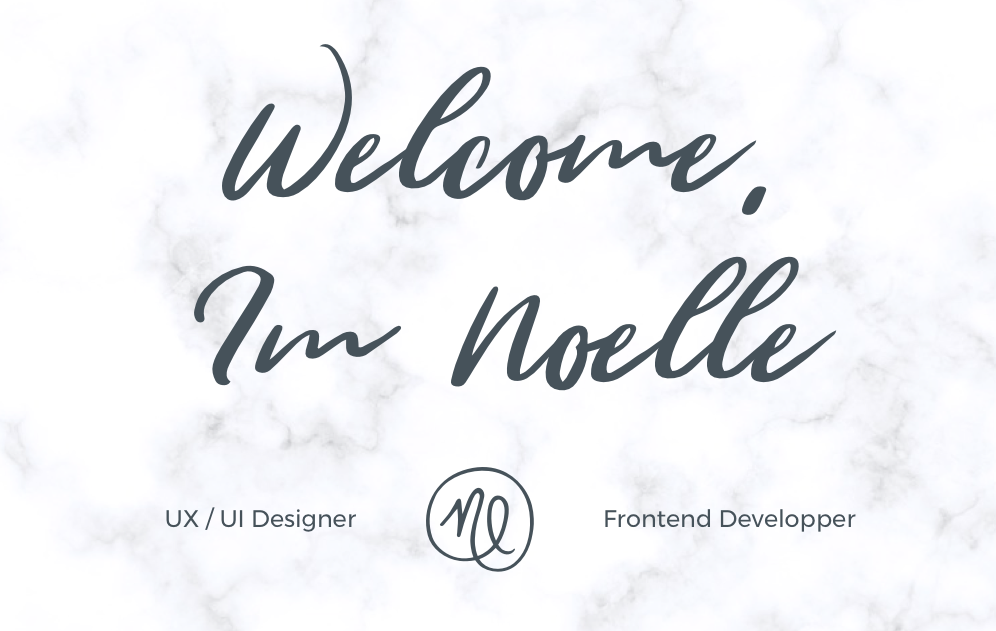
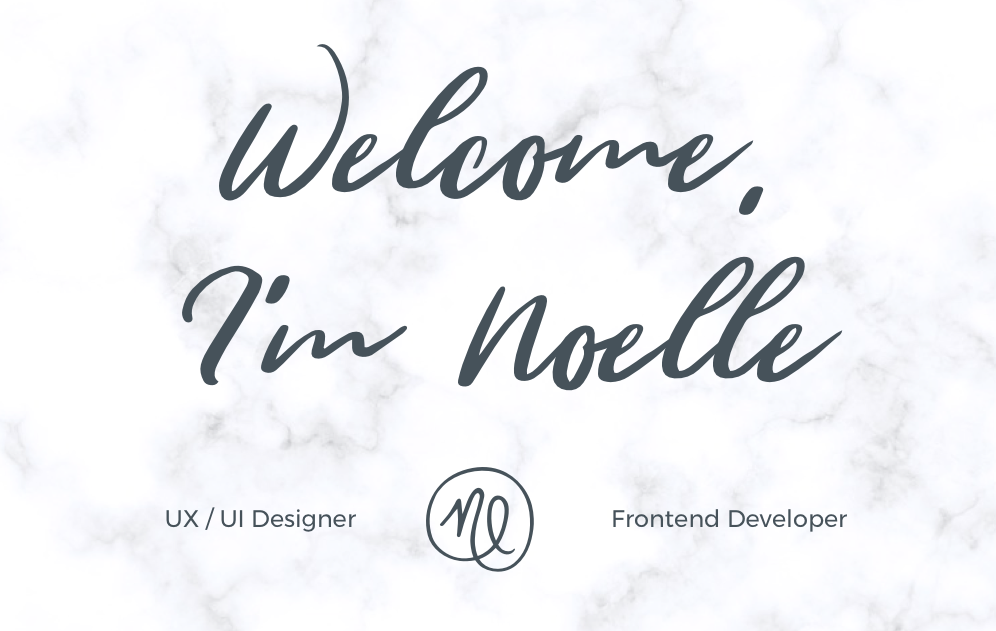
feedback edits

diff --git a/about.html b/about.html
@@ -4,7 +4,7 @@
   <meta http-equiv="X-UA-Compatible" content="IE=Edge">
   <meta name="viewport" content="width=device-width, initial-scale=1">
   <meta charset="UTF-8">
-  
+
   <title>Noëlle Lewkowicz | About</title>
 
   <link rel="shortcut icon" href="images/logo-blue.png" />
@@ -38,10 +38,10 @@
 
 <ul class="menulist">
   <li><a href="index.html"><img src="images/logo-white.png"/></a></li>
-  <li><a class="menuitems" href="index.html">Projects</a></li>   
-  <li><a class="menuitems" href="about.html">About</a></li>        
+  <li><a class="menuitems" href="index.html">Projects</a></li>
+  <li><a class="menuitems" href="about.html">About</a></li>
   <li><a class="menuitems" href="contact.html">Contact</a></li>
-</ul>     
+</ul>
 </div>
 
 <div id="main">
@@ -70,7 +70,7 @@
 <section class="header">
   <div class="header-container">
     <img src="images\about-me.png">
-    <p>“If you can design one thing, you can design everything.” 
+    <p>“If you can design one thing, you can design everything.”
     <br>- Massimo Vignelli</p>
   </div>
 </section>
@@ -81,12 +81,13 @@
   <div class="about-left">
     <div class="blue-bar"></div>
     <h3>My Background</h3>
-    <p class="bio-text">Art and Design have always been a lifelong love of mine though my career didn’t start until 2011 when I graduated with a BFA from ‘Parsons School of Art and Design’ and began as a fashion and graphic designer in New York City.<br><br>
+    <p class="bio-text">Art and Design have always been a lifelong love of mine though my career didn’t start until 2011 when I graduated with a BFA from <a target="_blank" href="http://www.newschool.edu/parsons/" class="school">Parsons School of Art and Design</a> and began as a fashion and graphic designer in New York City.<br><br>
 
-    It didn’t take long for me to discover a growing passion for communication design, and so, started self-teaching print and digital design as well as taking a continuing education course at New York’s ‘School of Visual Arts’ while still working full-time in Fashion Design.<br><br>
+    It didn’t take long for me to discover a growing passion for communication design, and so, started self-teaching print and digital design as well as taking a continuing education course at New York’s <a href="http://www.sva.edu/" class="school">School of Visual Arts</a> while still working full-time in Fashion Design.<br><br>
 
     In 2016 I realized my true passion for digital design and decided to study UX/UI Design and Frontend Development full time in order to embark on this new career path.
     </p>
+    <a href="contact.html" class="button">Contact Me</a>
   </div>
 
   <div class="about-right">
@@ -123,4 +124,3 @@
 </script>
 </body>
 </html>
-

diff --git a/styles/case-study.css b/styles/case-study.css
@@ -10,8 +10,8 @@ section {
 
 section p {
   width: 80%;
-  max-width: 1024px;
-  text-align: justify;
+  max-width: 950px;
+  text-align: left;
   margin: 50px auto 20px;
   line-height: 1.5;
 }
@@ -25,12 +25,13 @@ h4 {
 }
 
 .section-title {
-  left: 10%;
+  left: -27%;
   max-width: 50%;
+  text-align: right;
 }
 
 .blue-bar {
-  width: 240px;
+  width: 350px;
   margin-top: 10px;
 }
 
@@ -157,7 +158,7 @@ h4 {
 
 .image-gallery img {
   width: 33%;
-  margin: 8px; 
+  margin: 8px;
 /*  align-self: flex-start;*/
 }
 
@@ -179,7 +180,7 @@ h4 {
 
 .final-design .image-gallery img {
   width: 80%;
-  margin: 8px; 
+  margin: 8px;
 }
 
 
@@ -212,14 +213,23 @@ h4 {
   padding: 20px 0 40px;
 }
 
+
+
+
 /*MEDIA QUERIES FOR XTRA LARGE SCREENS*/
+@media (min-width:1024px) and (max-width:1112px) {
+  .section-title {
+    left: -20%;
+  }
+}
+
 @media (min-width: 1440px){
   .fb-third{
     padding: 8% 0 0 9%;
   }
 }
 
-@media (min-width: 1514px){
+@media (min-width: 1514px)and (max-width: 1899px){
   .blue-bar, .add-length{
     width: 31%;
   }
@@ -228,9 +238,13 @@ h4 {
   }
 }
 
-
-
-
-
-
-
+@media (min-width: 1900px) {
+  .blue-bar{
+    display: none;
+  }
+  .section-title{
+    left: 0;
+    margin: auto;
+    text-align: center;
+  }
+}

diff --git a/index.html b/index.html
@@ -6,7 +6,7 @@
   <meta charset="UTF-8">
   <meta name="keywords" content="Noelle, Lewkowicz, designer, portfolio, designs, noelleliza, webdesigner, webdesign, ux, ui">
   <meta name="description" content="Noelle Lewkowicz's Design portfolio">
-  <meta property="og:image" content="https://raw.githubusercontent.com/Noelleliza/noelleliza.github.io/master/images/meta.png">
+  <meta property="og:image" name="twitter:image" content="images/meta.png">
 
   <title>Noëlle Lewkowicz | Portfolio</title>
 
@@ -65,7 +65,7 @@
   <div class="hero-frame">
     <div class="hero-left">
       <img src="images/welcome-noelle.png">
-      <p class="box-text">I'm a Paris based UX / UI designer with Frontend skills and an eternal love for sweets.</p>
+      <p class="box-text">I'm a Paris-based UX / UI designer with Frontend skills and an eternal love for sweets.</p>
     </div>
     <div class="hero-right">
       <img src="images/noelle.png">

diff --git a/styles/deco.css b/styles/deco.css
@@ -7,12 +7,12 @@
 }
 
 .dc-bttn:hover {
-  color: #5380AE; 
+  color: #5380AE;
 }
 
 .blue-bar {
   background: #424A4F;
-  width: 240px;
+  width: 350px;
   margin-top: 10px;
   opacity: 1;
 }
@@ -28,6 +28,12 @@
 @media (max-width: 601px){
   .section-title {
     color: #424A4F;
+  }
+}
+
+@media (min-width: 1900px) {
+  .section-title{
+    color: #424a4f;
   }
 }
 
@@ -99,12 +105,27 @@ h4.centered-title  {
   background: #D1DAE3;
 }
 
+/*@media query {}*/
+
+@media (max-width:1024px) {
+  .section-title {
+    left: 120px;
+    text-align: left;
+  }
+  .blue-bar{
+    width: 220px;
+  }
+  .add-length {
+    width: 350px;
+}
+}
+
 /*LARGE SCREENS*/
-@media (min-width: 1514px){
+@media (min-width: 1514px) and (max-width: 1899px){
   .blue-bar, .add-length{
     width: 31%;
   }
   .section-title{
-    left: 20%;
+    left: -21%;
   }
 }

diff --git a/styles/media-queries.css b/styles/media-queries.css
@@ -25,6 +25,7 @@
     top: 50px;
     position: relative;
     height: 80vh; /* make hero % height of screen*/
+    margin-bottom: 50px;
   }
 
   .hero-frame {
@@ -65,6 +66,13 @@
    margin-top: 0px;
    margin-bottom: 40px;
   }
+
+  .section-title{
+      left: 0;
+      margin: auto;
+      text-align: center;
+    }
+
 
  .box-third {
   width: 100%;
@@ -208,7 +216,7 @@
     opacity:0.0;
     transition: all .5s ease-in-out;
 }
-
+/*
 .menuitems:after {
   content:'';
   display:block;
@@ -220,7 +228,7 @@
 
 .menuitems:hover::after {
     width:100%;
-}
+}*/
 
 #closebtn {
     height:25px;

diff --git a/styles/about.css b/styles/about.css
@@ -35,7 +35,7 @@
 }
 
 p.bio-text {
-  margin: 40px 50px 0 0;
+  margin: 40px 50px 50px 0;
   line-height: 1.5;
 }
 
@@ -58,17 +58,25 @@ p.bio-text {
     position: relative;
   }
 
-  .pink.box {
+.pink.box {
     right: -35px;
     height: 380px;
     width: 100%;
     bottom: 335px;
   }
 
-  .for-box {
+.for-box {
     width: 100%;
     overflow: hidden;
   }
+
+.button{
+  display: inline-block;
+}
+
+.school{
+  color: #3484b9;
+}
 
 /*LARGE SCALE ONLY*/
   @media (min-width: 756px){
@@ -91,9 +99,3 @@ p.bio-text {
     }
 
   }
-
-
-
-
-
-

diff --git a/styles/style.css b/styles/style.css
@@ -4,6 +4,7 @@ body {
   color: #46525A;
   margin: 0;
   min-height: 100%;
+  font-weight: lighter;
 }
 
 *,
@@ -251,5 +252,5 @@ a {
   text-decoration: underline;
   display: inline-block;
   width: 100%;
-  padding-top: 25px;
+  padding-top: 35px;
 }

diff --git a/styles/foxbox.css b/styles/foxbox.css
@@ -39,7 +39,6 @@ h4 {
 .blue-bar {
   background: #76A6B1;
   margin-top: 10px;
-  width: 240px;
 }
 
 .add-length {
@@ -145,7 +144,7 @@ h4 {
 }
 
 .bw .image-gallery img{
-  width: 100%;  
+  width: 100%;
 }
 
 */
